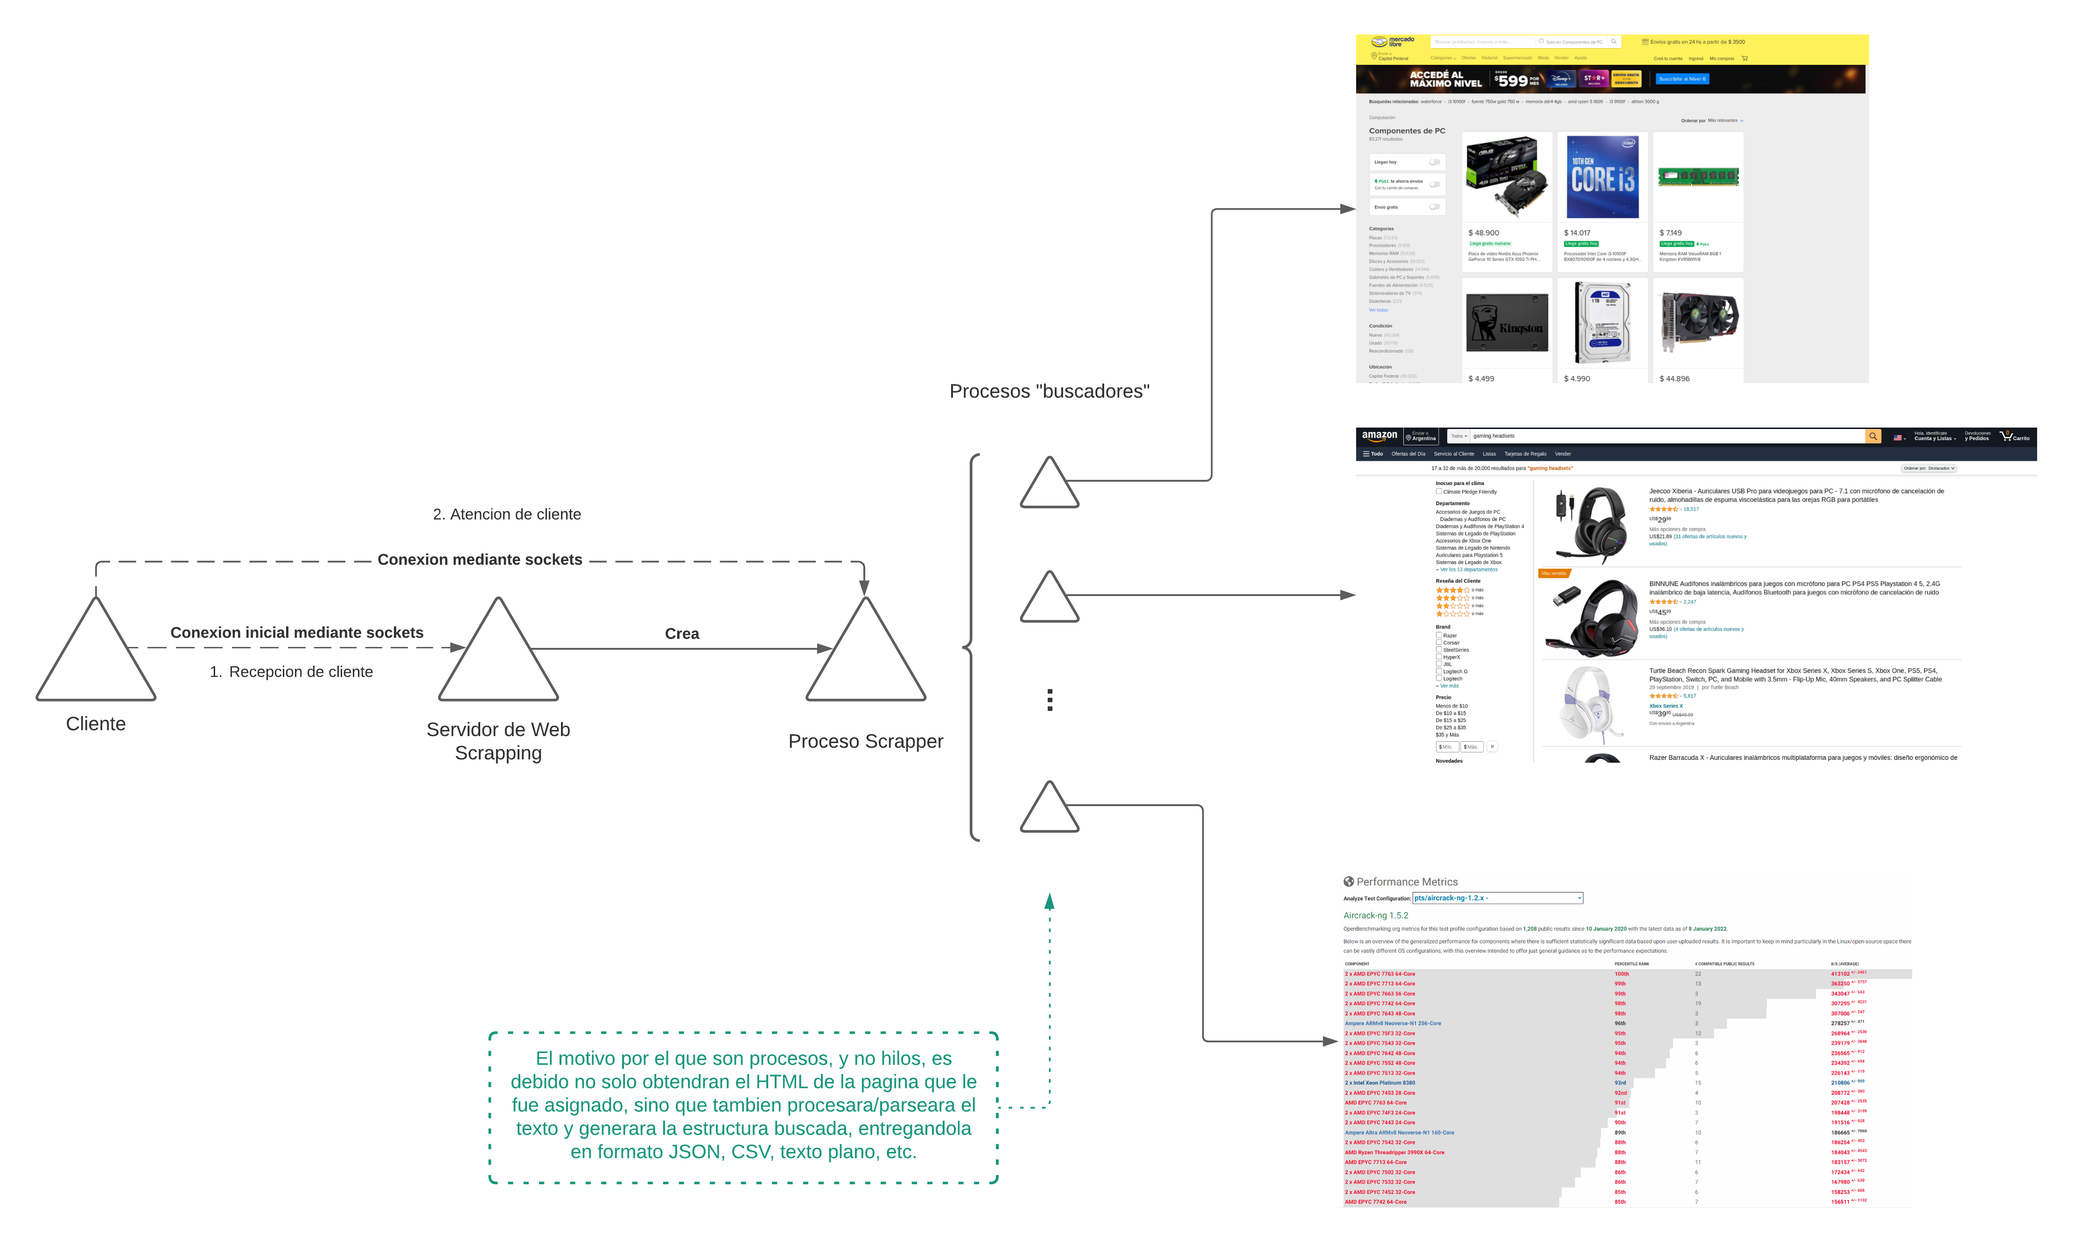
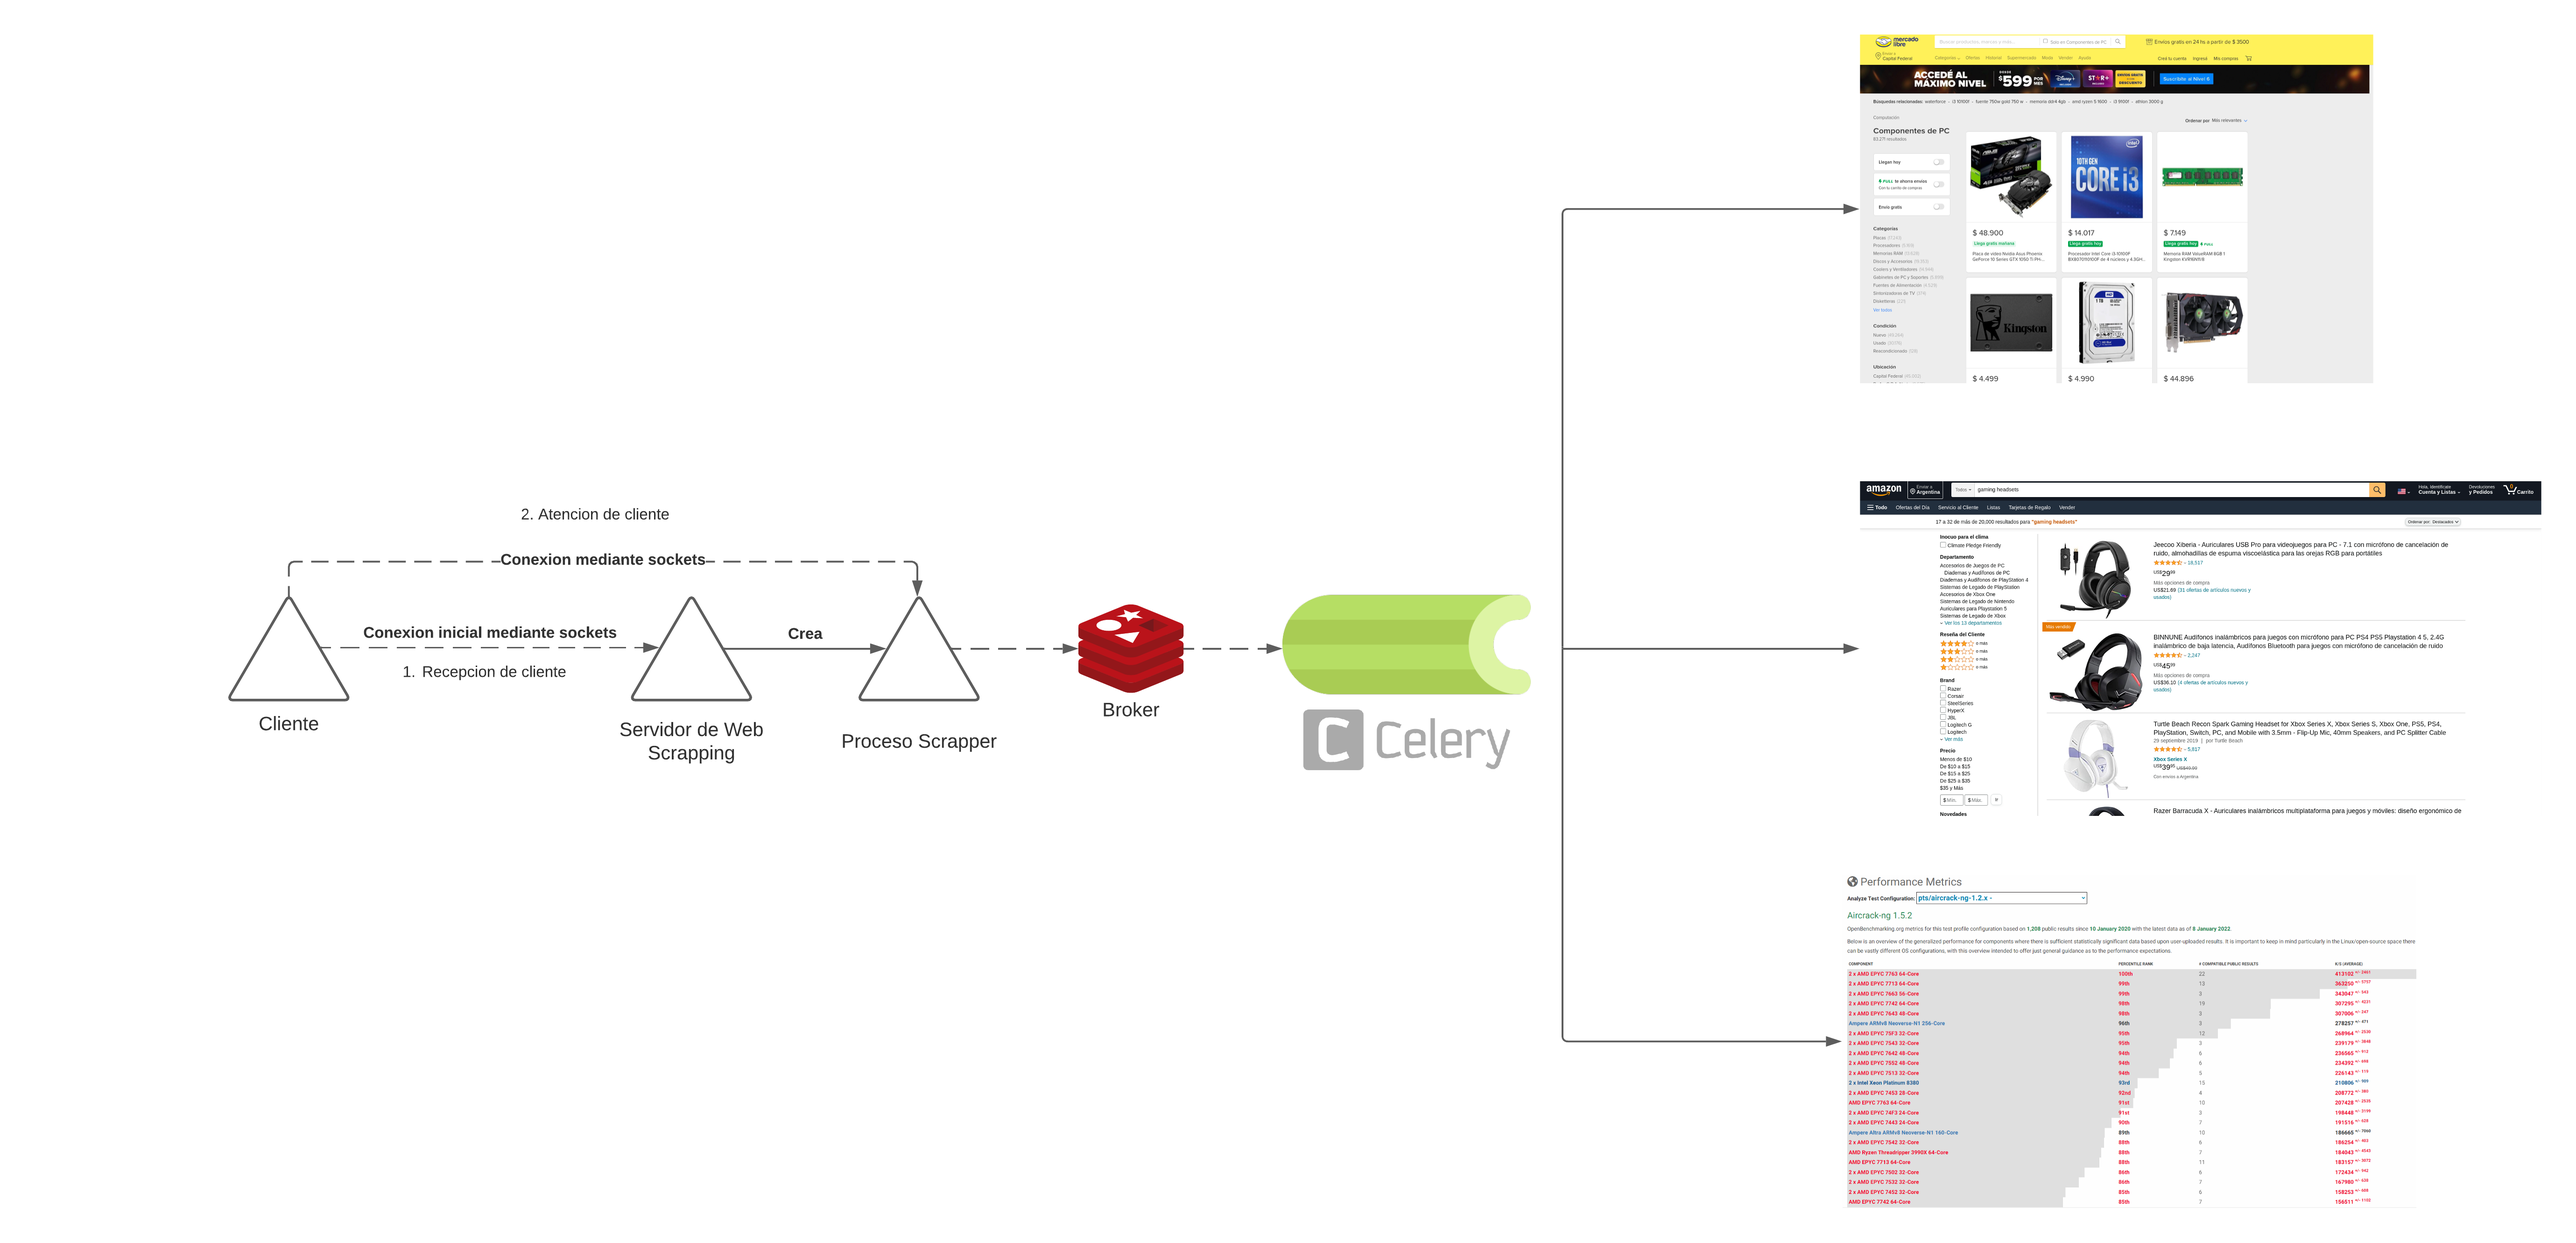
Update de imagenes. Se actualizaron las imagenes a la arquitectura utilizada en la version final.

diff --git a/FINAL.md b/FINAL.md
@@ -7,6 +7,8 @@ Una vez recibida la solicitud (Request), el servidor asigna un conjunto de URL y
 
 Cada **_task_** de **Celery** realizara un Request HTTP a la URL que le fue asignada y una vez obtenido el Response HTTP, se analizara el HTML recibido en busqueda de **_tags HTML_** que cumplan con los parametros de busqueda recibidos y los agregara a una lista.
 
+![diagrama_de_concurrencia](https://github.com/MarianoSaez/final/blob/main/img/Diagrama%20de%20concurrencia.png)
+
 Cuando cada **_task_** retorno al servidor su resultado, este construye una respuesta con todos los conjuntos de resultados obtenidos y la envia al cliente. Como tarea adicional, el servidor se encarga de llevar un **_log_** de las tareas realizadas, el cual se almacena en una instancia de [**MongoDB**](https://www.mongodb.com/), que dada la similitud de formatos en los que trabajan el servidor y el DBMS, fue la opcion elegida.
 
 Por ultimo, cuando el cliente recibe la respuesta del servidor, este genera 3 archivos.

diff --git a/README.md b/README.md
@@ -1,7 +1,7 @@
 # Simple Web Scrapper Server
 Simple Web Scrapper Server es una herramienta que facilita la tarea de buscar, procesar y reunir datos que se encuentran en sitios web.
  
- ![arquitectura](https://github.com/MarianoSaez/final/blob/main/img/Esquema%20gral..png)
+ ![arquitectura](https://github.com/MarianoSaez/final/blob/main/img/Esquema%20gral.png)
 
  ## Uso basico de la aplicacion
  ```
